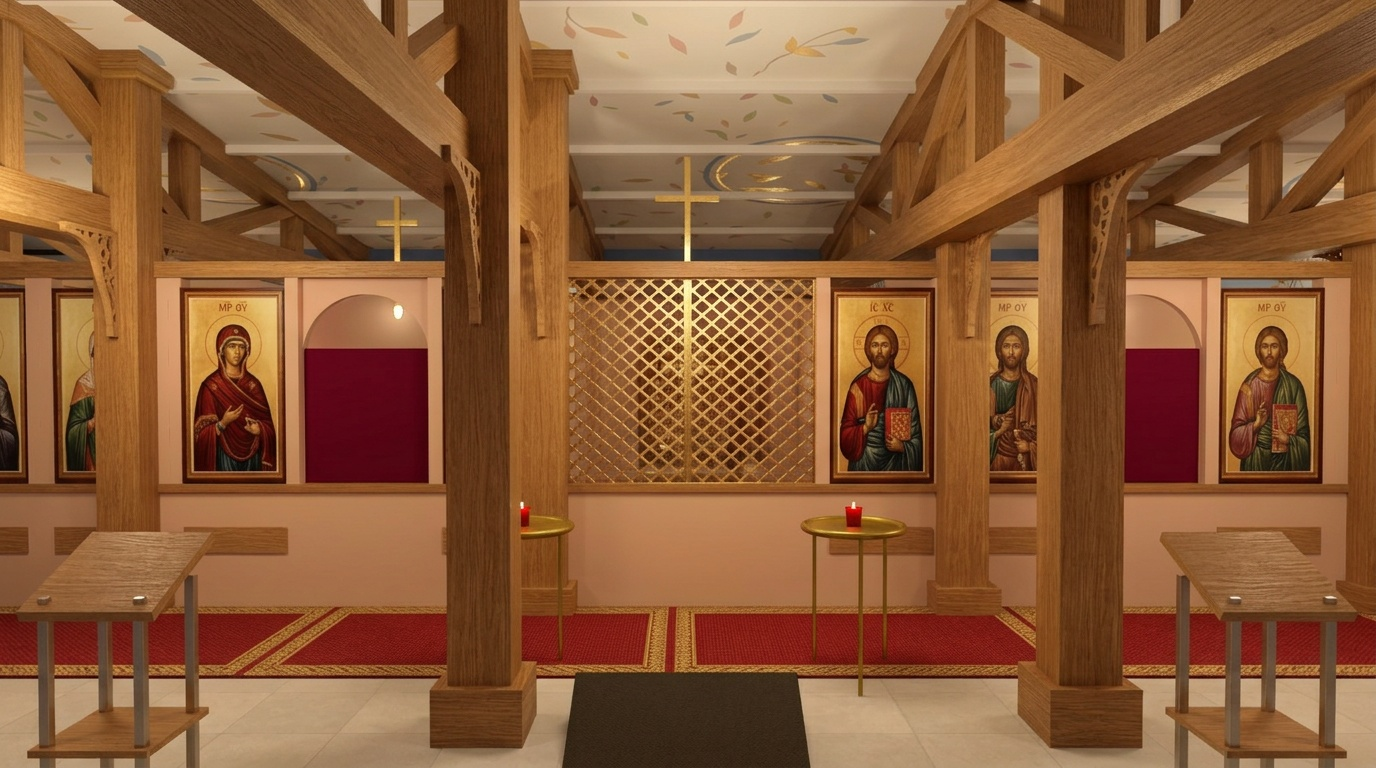
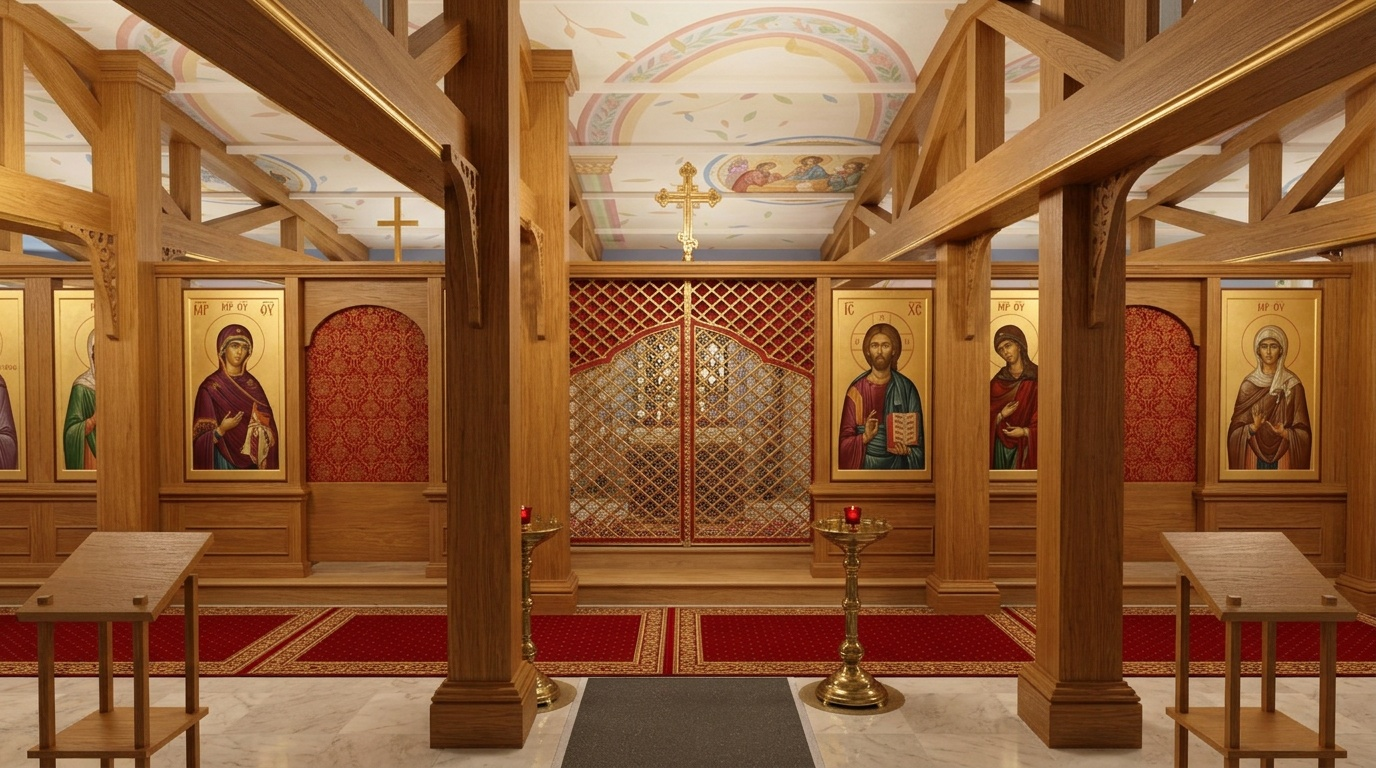
Variant 2б re-rendered with a stricter prompt; close-up of the column, bracket and open truss
Claude-Session: https://claude.ai/code/session_01F9vtHPtZGeYhA4xT8Rqj6J

diff --git a/territory-3d/tools/renders/make_refs.js b/territory-3d/tools/renders/make_refs.js
@@ -13,6 +13,7 @@ const VIEWS = {
   mosque_interior: 'roof=0&cam=38,2.6,-123.5&at=29,1.0,-117', mosque_hall: 'cam=30.9,1.6,-116.0&at=26.7,0.7,-121.3',
   temple_nave: 'finish=wood&' + FRONT, temple_trusses: 'cam=124.5,1.6,-266&at=114,2.9,-254',
   temple_stasidia: 'cam=118.6,1.6,-255.2&at=113.4,1.5,-262',
+  temple_open_trusses: 'finish=wood_open&cam=114.6,1.4,-258.6&at=118.6,2.7,-256.0',   // узел колонна–косынка–ферма, вариант 2б
 };
 for (const f of ['white', 'wood', 'wood_open', 'wood_glass', 'stucco', 'icons', 'icons_painted', 'ceiling']) VIEWS['temple_finish_' + f] = 'finish=' + f + '&' + FRONT;
 (async () => {

diff --git a/territory-3d/renders/PROMPTS.md b/territory-3d/renders/PROMPTS.md
@@ -28,4 +28,5 @@ industrial camp, overcast soft daylight, 35 mm lens, high detail, no people, no 
 | Файл | Камера | Что меняется |
 |---|---|---|
 | `temple_finish_white.jpg` … `temple_finish_ceiling.jpg` | та же, что `temple_nave.jpg` (`?finish=white\|wood\|wood_open\|wood_glass\|stucco\|icons\|icons_painted\|ceiling`) | отделка колонн и ферм: белая сталь, дуб сплошной с филёнками, дуб по элементам, дуб с витражами, каннелюры с позолотой, колонны-киоты, колонны-киоты с обшитыми фермами (библейские сюжеты, золочёные ленты с текстами на греческом, иврите и церковнославянском), подшивной расписной потолок |
+| `temple_open_trusses.jpg` | (114.6, 1.4, −258.6) → (118.6, 2.7, −256.0), `?finish=wood_open` | узел колонна–косынка–ферма крупно, вариант 2б |
 | `mosque_hall.jpg` | (30.9, 1.6, −116) → (26.7, 0.7, −121.3) | молитвенный зал с уровня глаз: ковёр, окно, штора-разделитель справа |
